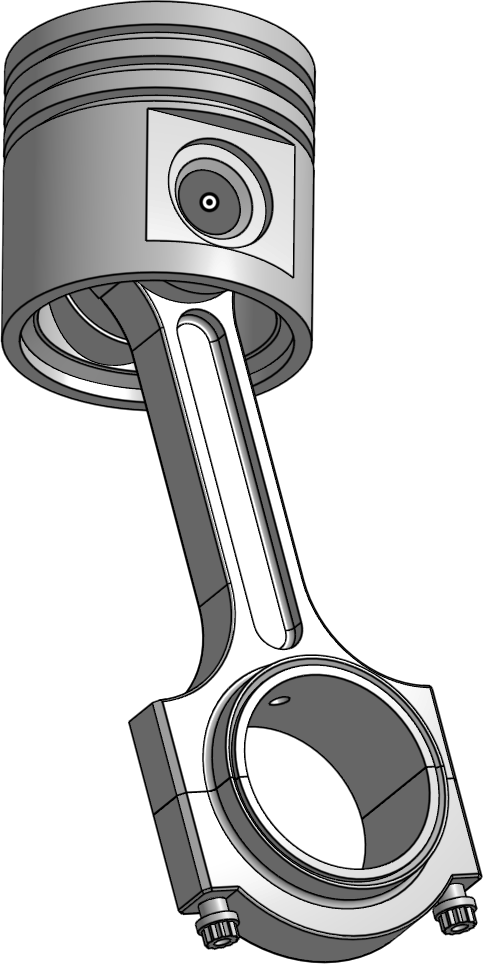
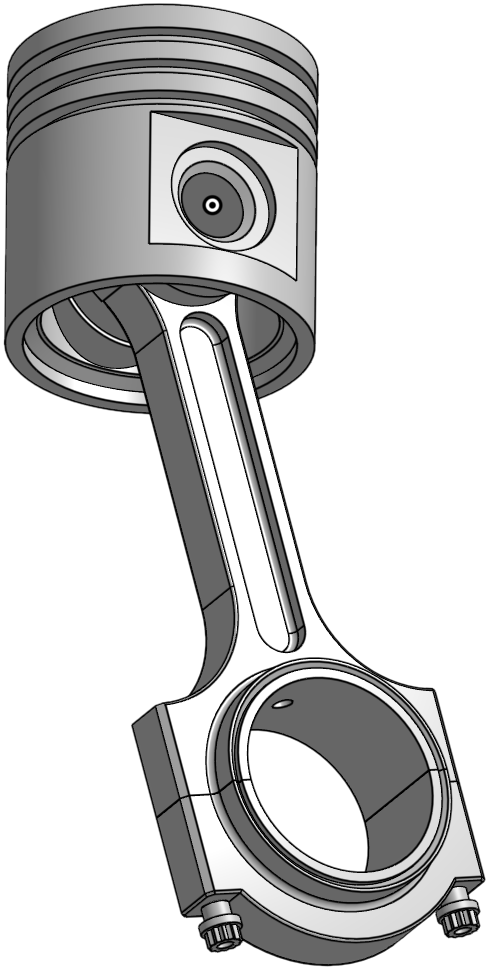
Add files via upload

diff --git a/index.html b/index.html
@@ -3,12 +3,58 @@
 <head>
 <meta charset="UTF-8">
 <meta name="viewport" content="width=device-width, initial-scale=1.0">
-<title>Dan Oldja — Mechanical Engineering</title>
-<meta name="description" content="Dan Oldja, Mechanical Engineering student at the University of Akron. CAD, assembly, tooling, thermodynamics.">
+<title>Dan Oldja — Mechanical Engineering Portfolio</title>
+<meta name="description" content="Portfolio of Dan Oldja, a Mechanical Engineering student at the University of Akron. CAD design, assembly, tooling, and thermodynamics project work.">
+<meta name="robots" content="index, follow">
+<link rel="canonical" href="https://dan-oldja-portfolio.onrender.com/">
+
+<!-- Favicons -->
+<link rel="icon" href="/favicon.ico" sizes="32x32">
+<link rel="icon" href="/favicon.svg" type="image/svg+xml">
+<link rel="icon" href="/favicon-16x16.png" sizes="16x16" type="image/png">
+<link rel="icon" href="/favicon-32x32.png" sizes="32x32" type="image/png">
+<link rel="apple-touch-icon" href="/apple-touch-icon.png">
+<link rel="manifest" href="/site.webmanifest">
+<meta name="theme-color" content="#10182b">
+
+<!-- Open Graph -->
+<meta property="og:type" content="website">
+<meta property="og:site_name" content="Dan Oldja">
+<meta property="og:title" content="Dan Oldja — Mechanical Engineering Portfolio">
+<meta property="og:description" content="Portfolio of Dan Oldja, a Mechanical Engineering student at the University of Akron. CAD design, assembly, tooling, and thermodynamics project work.">
+<meta property="og:url" content="https://dan-oldja-portfolio.onrender.com/">
+<meta property="og:image" content="https://dan-oldja-portfolio.onrender.com/images/og-image.jpg">
+<meta property="og:image:width" content="1200">
+<meta property="og:image:height" content="630">
+
+<!-- Twitter Card -->
+<meta name="twitter:card" content="summary_large_image">
+<meta name="twitter:title" content="Dan Oldja — Mechanical Engineering Portfolio">
+<meta name="twitter:description" content="Portfolio of Dan Oldja, a Mechanical Engineering student at the University of Akron. CAD design, assembly, tooling, and thermodynamics project work.">
+<meta name="twitter:image" content="https://dan-oldja-portfolio.onrender.com/images/og-image.jpg">
+
 <link rel="preconnect" href="https://fonts.googleapis.com">
 <link rel="preconnect" href="https://fonts.gstatic.com" crossorigin>
 <link href="https://fonts.googleapis.com/css2?family=Space+Grotesk:wght@500;700&family=JetBrains+Mono:wght@400;500;700&display=swap" rel="stylesheet">
 <link rel="stylesheet" href="style.css">
+
+<!-- Structured data -->
+<script type="application/ld+json">
+{
+  "@context": "https://schema.org",
+  "@type": "Person",
+  "name": "Dan Oldja",
+  "url": "https://dan-oldja-portfolio.onrender.com/",
+  "jobTitle": "Mechanical Engineering Student",
+  "affiliation": {
+    "@type": "CollegeOrUniversity",
+    "name": "University of Akron"
+  },
+  "sameAs": [
+    "http://www.linkedin.com/in/dan-oldja-26366a276"
+  ]
+}
+</script>
 </head>
 <body>
 
@@ -30,15 +76,17 @@
     <div class="hero-text">
       <p class="eyebrow">Mechanical Engineering Portfolio</p>
       <h1>DAN OLDJA</h1>
-      <p class="mono">Hi there, my name is Dan Oldja; I'm a Mechanical Engineering student at the University of Akron.</p>
+      <p class="mono">My name is Dan Oldja; I'm a Mechanical Engineering student, studying at the University of Akron.</p>
       <div class="btn-stack">
         <a class="btn" href="https://drive.google.com/file/d/18biu7vkZFwWuG5aA1GvE7et9KRRfF0Ig/view?usp=sharing" target="_blank" rel="noopener">Resume</a>
         <a class="btn" href="http://www.linkedin.com/in/dan-oldja-26366a276" target="_blank" rel="noopener">LinkedIn</a>
         <a class="btn" href="#projects">Projects</a>
+        <a class="btn" href="#contact">Contact</a>
       </div>
     </div>
     <div class="hero-image">
       <img src="images/hero-piston.png" alt="CAD render of a piston and connecting rod assembly" id="hero-img">
+      <p class="image-credit mono">Modeled and assembled by me in Onshape.</p>
     </div>
   </section>
 
@@ -96,7 +144,7 @@
   </section>
 
   <!-- CONTACT -->
-  <section class="contact reveal">
+  <section id="contact" class="contact reveal">
     <h2>Get In Touch</h2>
     <p class="mono">Whether you're a recruiter or simply want to connect, I'm always open to discussing mechanical engineering topics and opportunities.</p>
 

diff --git a/style.css b/style.css
@@ -119,6 +119,12 @@ a { color: inherit; }
   max-width: 100%;
   max-height: clamp(420px, 52vw, 680px);
 }
+.hero-image .image-credit {
+  text-align: center;
+  font-size: 0.8rem;
+  opacity: 0.55;
+  margin: 10px 0 0;
+}
 
 .btn-stack {
   display: flex;
@@ -148,19 +154,18 @@ a { color: inherit; }
 .idea {
   background: var(--orange);
   color: var(--navy);
-  padding: 80px 40px;
+  padding: 56px 40px;
+  text-align: center;
 }
 .idea h2 {
   font-size: clamp(2.5rem, 6vw, 4rem);
   max-width: 1200px;
   margin: 0 auto 32px;
-  transform: translateX(-40px);
 }
 .idea p {
   max-width: 900px;
   margin: 0 auto;
   font-size: 1.1rem;
-  transform: translateX(-40px);
 }
 
 /* PROJECTS */
@@ -171,6 +176,7 @@ a { color: inherit; }
     linear-gradient(90deg, rgba(16,24,43,0.06) 1px, transparent 1px);
   background-size: 40px 40px;
   padding: 80px 40px 100px;
+  text-align: center;
 }
 .projects > h2 {
   font-size: clamp(3rem, 7vw, 5rem);
@@ -195,6 +201,8 @@ a { color: inherit; }
   font-size: 1.05rem;
   margin-bottom: 20px;
   max-width: 900px;
+  margin-left: auto;
+  margin-right: auto;
 }
 
 .figure-pair {
@@ -245,19 +253,21 @@ a { color: inherit; }
   padding: 80px 40px;
   max-width: 800px;
   margin: 0 auto;
+  text-align: center;
 }
 .contact h2 {
   font-size: clamp(2.5rem, 6vw, 3.5rem);
 }
 .contact > p.mono {
   max-width: 640px;
-  margin-bottom: 40px;
+  margin: 0 auto 40px;
   font-size: 1.05rem;
 }
 .contact-form {
   display: flex;
   flex-direction: column;
   gap: 20px;
+  text-align: left;
 }
 .form-row {
   display: grid;
@@ -323,7 +333,6 @@ a { color: inherit; }
   .hero { padding: 40px 20px; }
   .hero-image { margin-left: 0; }
   .hero-image img { max-height: 380px; }
-  .idea h2, .idea p { transform: none; }
   .idea, .projects, .contact { padding: 50px 20px; }
   .figure-pair, .caption-split, .form-row {
     grid-template-columns: 1fr;
